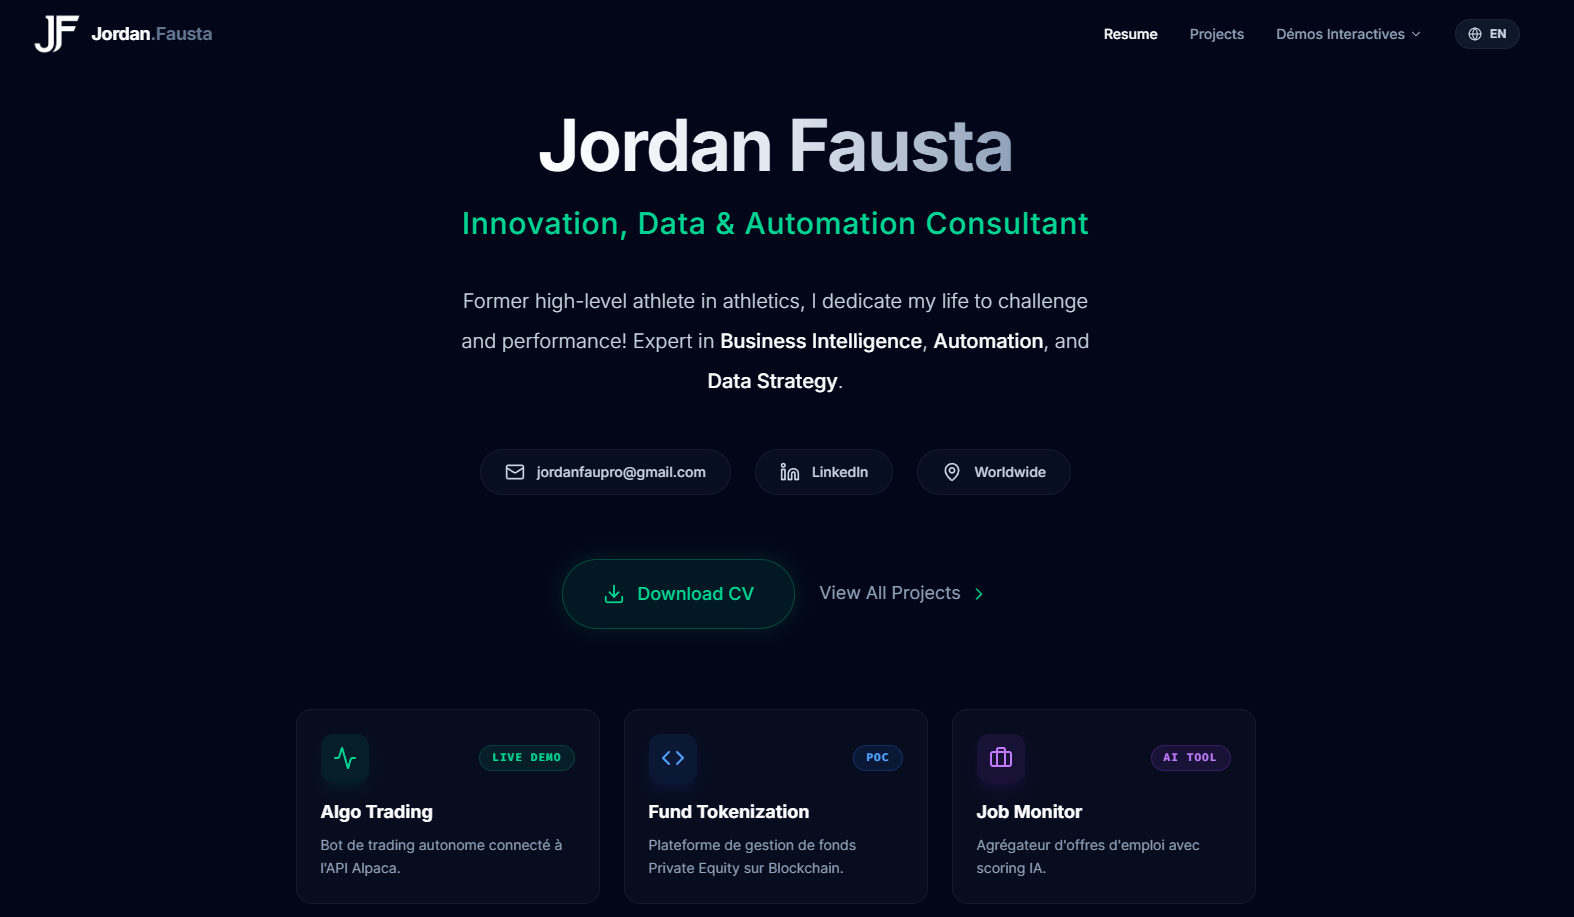
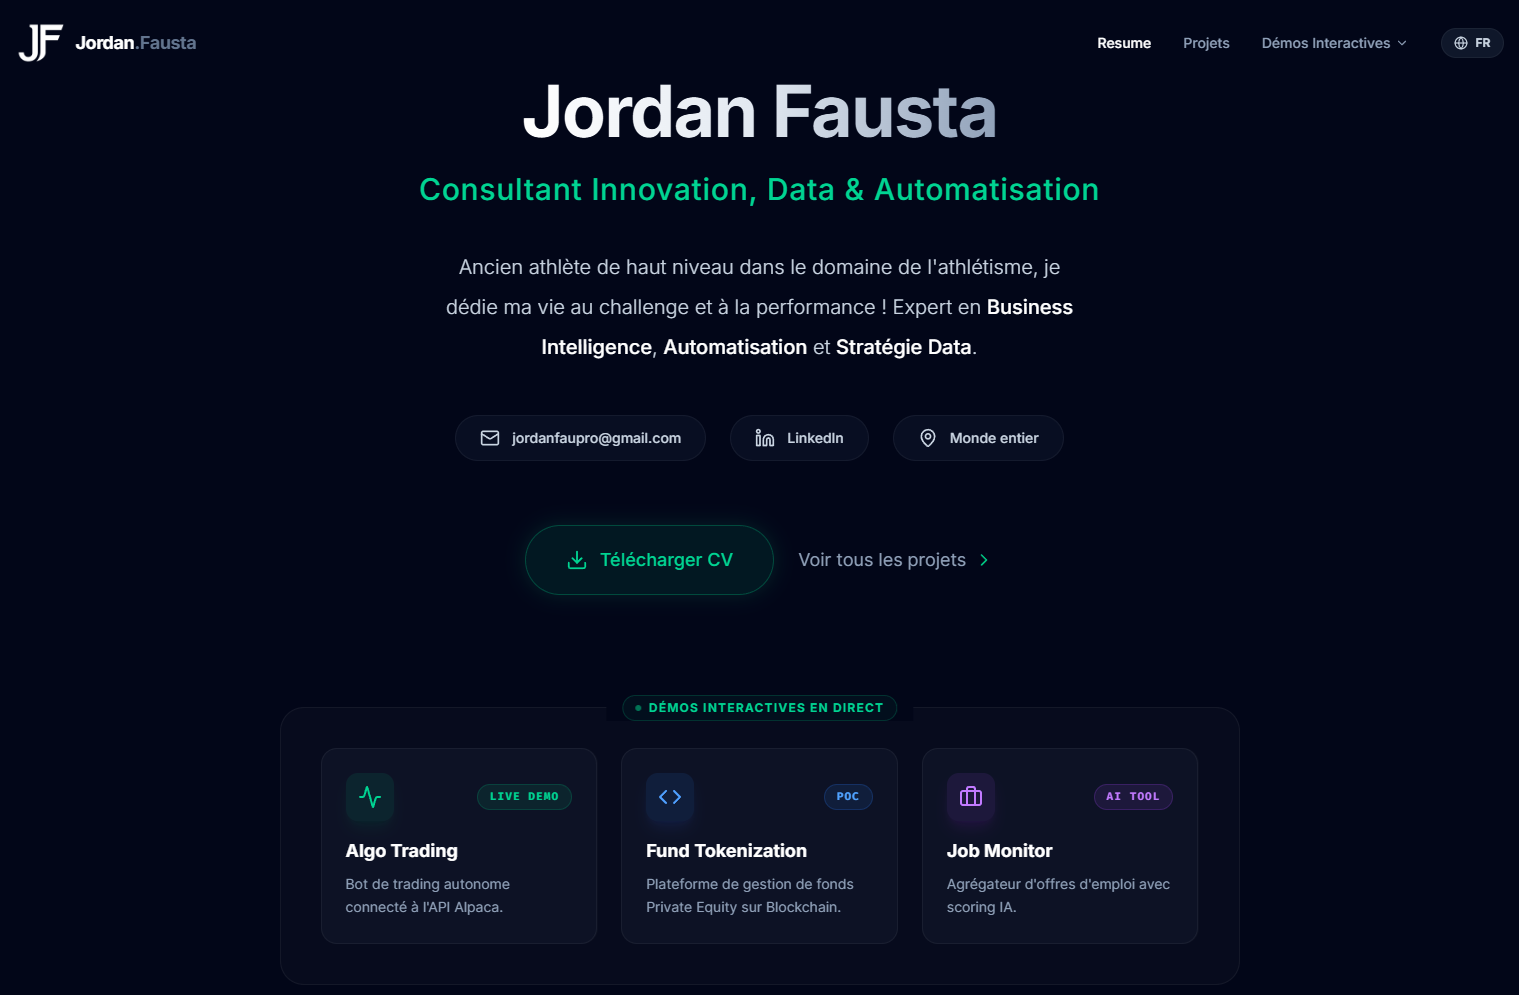
Final Polish: Resume 'Live Demos' design, KPI Card overflow fix, Responsive Headers

diff --git a/src/pages/Resume.jsx b/src/pages/Resume.jsx
@@ -263,39 +263,50 @@ const Resume = () => {
           </div>
 
           {/* Quick Access Cards */}
-          <div className="grid grid-cols-1 md:grid-cols-3 gap-4 md:gap-6 max-w-5xl w-full px-4 mb-8">
-            <Link to="/trading" onClick={() => trackEvent('card_click', 'navigation', 'trading')} className="group bg-slate-900/40 border border-white/5 rounded-xl md:rounded-2xl p-4 md:p-6 hover:bg-slate-800/60 hover:border-emerald-500/40 transition-all text-left backdrop-blur-sm">
-              <div className="flex items-center justify-between mb-3 md:mb-4">
-                <div className="p-2 md:p-3 bg-emerald-500/10 text-emerald-400 rounded-lg md:rounded-xl group-hover:bg-emerald-500 group-hover:text-white transition-colors shadow-lg shadow-emerald-900/20">
-                  <Activity size={20} className="md:w-6 md:h-6" />
+          <div className="w-full max-w-5xl px-4 md:mb-8 mt-8">
+            <fieldset className="w-full border border-white/5 bg-white/[0.02] rounded-3xl p-6 md:p-10 backdrop-blur-sm group">
+              <legend className="px-4 mx-auto select-none">
+                <div className="flex items-center gap-2 px-3 py-1 rounded-full border border-emerald-500/20 bg-emerald-500/5 backdrop-blur-md shadow-[0_0_15px_rgba(16,185,129,0.1)] group-hover:border-emerald-500/30 transition-colors">
+                    <span className="w-1.5 h-1.5 rounded-full bg-emerald-500 animate-pulse box-shadow-green"></span>
+                    <h2 className="text-[10px] md:text-xs font-bold text-emerald-400 uppercase tracking-widest">{t('resume.live_demos_title')}</h2>
                 </div>
-                <span className="text-[10px] md:text-[11px] font-bold font-mono text-emerald-400 uppercase tracking-widest bg-emerald-500/10 px-2 md:px-3 py-1 rounded-full border border-emerald-500/20">Live Demo</span>
-              </div>
-              <h3 className="text-white text-base md:text-lg font-bold mb-1 md:mb-2 group-hover:text-emerald-300 transition-colors">Algo Trading</h3>
-              <p className="text-xs md:text-sm text-slate-400 leading-relaxed">Bot de trading autonome connecté à l'API Alpaca.</p>
-            </Link>
+              </legend>
 
-            <Link to="/tokenization" onClick={() => trackEvent('card_click', 'navigation', 'tokenization')} className="group bg-slate-900/40 border border-white/5 rounded-xl md:rounded-2xl p-4 md:p-6 hover:bg-slate-800/60 hover:border-blue-500/40 transition-all text-left backdrop-blur-sm">
-              <div className="flex items-center justify-between mb-3 md:mb-4">
-                <div className="p-2 md:p-3 bg-blue-500/10 text-blue-400 rounded-lg md:rounded-xl group-hover:bg-blue-500 group-hover:text-white transition-colors shadow-lg shadow-blue-900/20">
-                  <Code size={20} className="md:w-6 md:h-6" />
-                </div>
-                <span className="text-[10px] md:text-[11px] font-bold font-mono text-blue-400 uppercase tracking-widest bg-blue-500/10 px-2 md:px-3 py-1 rounded-full border border-blue-500/20">POC</span>
-              </div>
-              <h3 className="text-white text-base md:text-lg font-bold mb-1 md:mb-2 group-hover:text-blue-300 transition-colors">Fund Tokenization</h3>
-              <p className="text-xs md:text-sm text-slate-400 leading-relaxed">Plateforme de gestion de fonds Private Equity sur Blockchain.</p>
-            </Link>
+              <div className="grid grid-cols-1 md:grid-cols-3 gap-4 md:gap-6">
+                <Link to="/trading" onClick={() => trackEvent('card_click', 'navigation', 'trading')} className="group bg-slate-900/40 border border-white/5 rounded-xl md:rounded-2xl p-4 md:p-6 hover:bg-slate-800/60 hover:border-emerald-500/40 transition-all text-left backdrop-blur-sm">
+                  <div className="flex items-center justify-between mb-3 md:mb-4">
+                    <div className="p-2 md:p-3 bg-emerald-500/10 text-emerald-400 rounded-lg md:rounded-xl group-hover:bg-emerald-500 group-hover:text-white transition-colors shadow-lg shadow-emerald-900/20">
+                      <Activity size={20} className="md:w-6 md:h-6" />
+                    </div>
+                    <span className="text-[10px] md:text-[11px] font-bold font-mono text-emerald-400 uppercase tracking-widest bg-emerald-500/10 px-2 md:px-3 py-1 rounded-full border border-emerald-500/20">Live Demo</span>
+                  </div>
+                  <h3 className="text-white text-base md:text-lg font-bold mb-1 md:mb-2 group-hover:text-emerald-300 transition-colors">Algo Trading</h3>
+                  <p className="text-xs md:text-sm text-slate-400 leading-relaxed">Bot de trading autonome connecté à l'API Alpaca.</p>
+                </Link>
 
-            <Link to="/jobs" onClick={() => trackEvent('card_click', 'navigation', 'jobmonitor')} className="group bg-slate-900/40 border border-white/5 rounded-xl md:rounded-2xl p-4 md:p-6 hover:bg-slate-800/60 hover:border-purple-500/40 transition-all text-left backdrop-blur-sm">
-              <div className="flex items-center justify-between mb-3 md:mb-4">
-                <div className="p-2 md:p-3 bg-purple-500/10 text-purple-400 rounded-lg md:rounded-xl group-hover:bg-purple-500 group-hover:text-white transition-colors shadow-lg shadow-purple-900/20">
-                  <Briefcase size={20} className="md:w-6 md:h-6" />
-                </div>
-                <span className="text-[10px] md:text-[11px] font-bold font-mono text-purple-400 uppercase tracking-widest bg-purple-500/10 px-2 md:px-3 py-1 rounded-full border border-purple-500/20">AI Tool</span>
+                <Link to="/tokenization" onClick={() => trackEvent('card_click', 'navigation', 'tokenization')} className="group bg-slate-900/40 border border-white/5 rounded-xl md:rounded-2xl p-4 md:p-6 hover:bg-slate-800/60 hover:border-blue-500/40 transition-all text-left backdrop-blur-sm">
+                  <div className="flex items-center justify-between mb-3 md:mb-4">
+                    <div className="p-2 md:p-3 bg-blue-500/10 text-blue-400 rounded-lg md:rounded-xl group-hover:bg-blue-500 group-hover:text-white transition-colors shadow-lg shadow-blue-900/20">
+                      <Code size={20} className="md:w-6 md:h-6" />
+                    </div>
+                    <span className="text-[10px] md:text-[11px] font-bold font-mono text-blue-400 uppercase tracking-widest bg-blue-500/10 px-2 md:px-3 py-1 rounded-full border border-blue-500/20">POC</span>
+                  </div>
+                  <h3 className="text-white text-base md:text-lg font-bold mb-1 md:mb-2 group-hover:text-blue-300 transition-colors">Fund Tokenization</h3>
+                  <p className="text-xs md:text-sm text-slate-400 leading-relaxed">Plateforme de gestion de fonds Private Equity sur Blockchain.</p>
+                </Link>
+
+                <Link to="/jobs" onClick={() => trackEvent('card_click', 'navigation', 'jobmonitor')} className="group bg-slate-900/40 border border-white/5 rounded-xl md:rounded-2xl p-4 md:p-6 hover:bg-slate-800/60 hover:border-purple-500/40 transition-all text-left backdrop-blur-sm">
+                  <div className="flex items-center justify-between mb-3 md:mb-4">
+                    <div className="p-2 md:p-3 bg-purple-500/10 text-purple-400 rounded-lg md:rounded-xl group-hover:bg-purple-500 group-hover:text-white transition-colors shadow-lg shadow-purple-900/20">
+                      <Briefcase size={20} className="md:w-6 md:h-6" />
+                    </div>
+                    <span className="text-[10px] md:text-[11px] font-bold font-mono text-purple-400 uppercase tracking-widest bg-purple-500/10 px-2 md:px-3 py-1 rounded-full border border-purple-500/20">AI Tool</span>
+                  </div>
+                  <h3 className="text-white text-base md:text-lg font-bold mb-1 md:mb-2 group-hover:text-purple-300 transition-colors">Job Monitor</h3>
+                  <p className="text-xs md:text-sm text-slate-400 leading-relaxed">Agrégateur d'offres d'emploi avec scoring IA.</p>
+                </Link>
               </div>
-              <h3 className="text-white text-base md:text-lg font-bold mb-1 md:mb-2 group-hover:text-purple-300 transition-colors">Job Monitor</h3>
-              <p className="text-xs md:text-sm text-slate-400 leading-relaxed">Agrégateur d'offres d'emploi avec scoring IA.</p>
-            </Link>
+            </fieldset>
           </div>
 
           <LiveStatusBadge />

diff --git a/src/pages/TradingPortfolio.jsx b/src/pages/TradingPortfolio.jsx
@@ -308,8 +308,8 @@ const TradingPortfolio = () => {
               <span>/</span>
               <span className="text-white">{t('trading.title')}</span>
             </div>
-            <h1 className="text-4xl md:text-6xl font-bold text-white flex items-center gap-3 tracking-tight mb-4">
-              <Trans i18nKey="trading.header.title" components={{ 1: <span className="text-transparent bg-clip-text bg-gradient-to-r from-emerald-400 to-cyan-400 pr-2 pb-2 inline-block" /> }} />
+            <h1 className="text-3xl md:text-6xl font-bold text-white flex flex-wrap items-center gap-2 md:gap-3 tracking-tight mb-4 leading-tight">
+              <Trans i18nKey="trading.header.title" components={{ 1: <span className="text-transparent bg-clip-text bg-gradient-to-r from-emerald-400 to-cyan-400 pr-2 pb-1 inline-block" /> }} />
               {isConnected && <span className="text-xs bg-emerald-500/20 text-emerald-400 px-2 py-1 rounded border border-emerald-500/30 font-mono">ALPACA LIVE</span>}
             </h1>
             <p className="text-slate-400 text-lg leading-relaxed flex items-center gap-2 max-w-2xl">
@@ -479,21 +479,26 @@ const TradingPortfolio = () => {
 
 const KpiCard = ({ title, value, change, isPositive, icon, animateValue }) => (
   <motion.div 
-    className="glass-card p-6"
+    className="glass-card p-4 md:p-6"
     whileHover={{ y: -5, borderColor: '#10b981' }}
     transition={{ type: "spring", stiffness: 300 }}
   >
     <div className="flex justify-between items-start mb-4">
       <div className="p-2 bg-slate-800/50 rounded-lg text-slate-400 border border-slate-700/50">
-        {icon}
+        {React.cloneElement(icon, { size: 20 })}
       </div>
-      <div className={`flex items-center gap-1 text-sm font-medium ${isPositive ? 'text-emerald-400' : 'text-red-400'}`}>
-        {isPositive ? <ArrowUpRight size={16} /> : <ArrowDownRight size={16} />}
-        {change}
+      <div className={`
+        flex items-center gap-1 px-2.5 py-1 rounded-full text-[10px] md:text-xs font-bold border backdrop-blur-sm
+        ${isPositive 
+          ? 'bg-emerald-500/10 border-emerald-500/20 text-emerald-400' 
+          : 'bg-red-500/10 border-red-500/20 text-red-400'}
+      `}>
+        {isPositive ? <ArrowUpRight size={14} className="shrink-0" /> : <ArrowDownRight size={14} className="shrink-0" />}
+        <span className="text-right leading-tight">{change}</span>
       </div>
     </div>
-    <h3 className="text-slate-400 text-sm mb-1 font-medium">{title}</h3>
-    <div className="text-2xl font-bold text-white font-mono tracking-tight">
+    <h3 className="text-slate-400 text-xs md:text-sm mb-1 font-medium">{title}</h3>
+    <div className="text-xl md:text-2xl font-bold text-white font-mono tracking-tight">
       {/* Simple flash effect key could be added here if needed */}
       {value}
     </div>

diff --git a/src/pages/JobMonitor.jsx b/src/pages/JobMonitor.jsx
@@ -140,8 +140,8 @@ const JobMonitor = () => {
                 <Trans i18nKey="job_monitor.title" components={{ 1: <span className="text-emerald-400" /> }} />
               </span>
             </div>
-            <h1 className="text-4xl md:text-6xl font-bold text-white mb-4 tracking-tight">
-              <Trans i18nKey="job_monitor.title" components={{ 1: <span className="text-transparent bg-clip-text bg-gradient-to-r from-emerald-400 to-cyan-400 pr-2 pb-2 inline-block" /> }} />
+            <h1 className="text-3xl md:text-6xl font-bold text-white mb-4 tracking-tight leading-tight">
+              <Trans i18nKey="job_monitor.title" components={{ 1: <span className="text-transparent bg-clip-text bg-gradient-to-r from-emerald-400 to-cyan-400 pr-2 pb-1 inline-block" /> }} />
             </h1>
             <p className="text-slate-400 text-lg leading-relaxed flex items-center gap-2 max-w-2xl">
               <span className="w-2 h-2 rounded-full bg-emerald-500 shadow-[0_0_10px_#10b981] animate-pulse"></span>

diff --git a/src/pages/Tokenization.jsx b/src/pages/Tokenization.jsx
@@ -17,8 +17,8 @@ const Tokenization = () => {
               <Trans i18nKey="tokenization.page_title" components={{ 1: <span className="text-emerald-400" /> }} />
             </span>
           </div>
-          <h1 className="text-4xl md:text-6xl font-bold text-white mb-4 tracking-tight">
-             <Trans i18nKey="tokenization.page_title" components={{ 1: <span className="text-transparent bg-clip-text bg-gradient-to-r from-emerald-400 to-cyan-400 pr-2 pb-2 inline-block" /> }} />
+          <h1 className="text-3xl md:text-6xl font-bold text-white mb-4 tracking-tight leading-tight">
+             <Trans i18nKey="tokenization.page_title" components={{ 1: <span className="text-transparent bg-clip-text bg-gradient-to-r from-emerald-400 to-cyan-400 pr-2 pb-1 inline-block" /> }} />
           </h1>
           <p className="text-slate-400 max-w-2xl mx-auto text-lg leading-relaxed">
             {t('tokenization.page_subtitle')}

diff --git a/src/pages/Projects.jsx b/src/pages/Projects.jsx
@@ -250,8 +250,8 @@ const Projects = () => {
               <span>/</span>
               <span className="text-white">{t('navbar.projects')}</span>
             </div>
-            <h1 className="text-4xl md:text-6xl font-bold text-white mb-4 tracking-tight">
-              <Trans i18nKey="projects.title" components={{ 1: <span className="text-transparent bg-clip-text bg-gradient-to-r from-emerald-400 to-cyan-400 pr-2 pb-2 inline-block" /> }} />
+            <h1 className="text-3xl md:text-6xl font-bold text-white mb-4 tracking-tight leading-tight">
+              <Trans i18nKey="projects.title" components={{ 1: <span className="text-transparent bg-clip-text bg-gradient-to-r from-emerald-400 to-cyan-400 pr-2 pb-1 inline-block" /> }} />
             </h1>
             <p className="text-slate-400 text-lg max-w-xl leading-relaxed">
               {t('projects.subtitle')}
